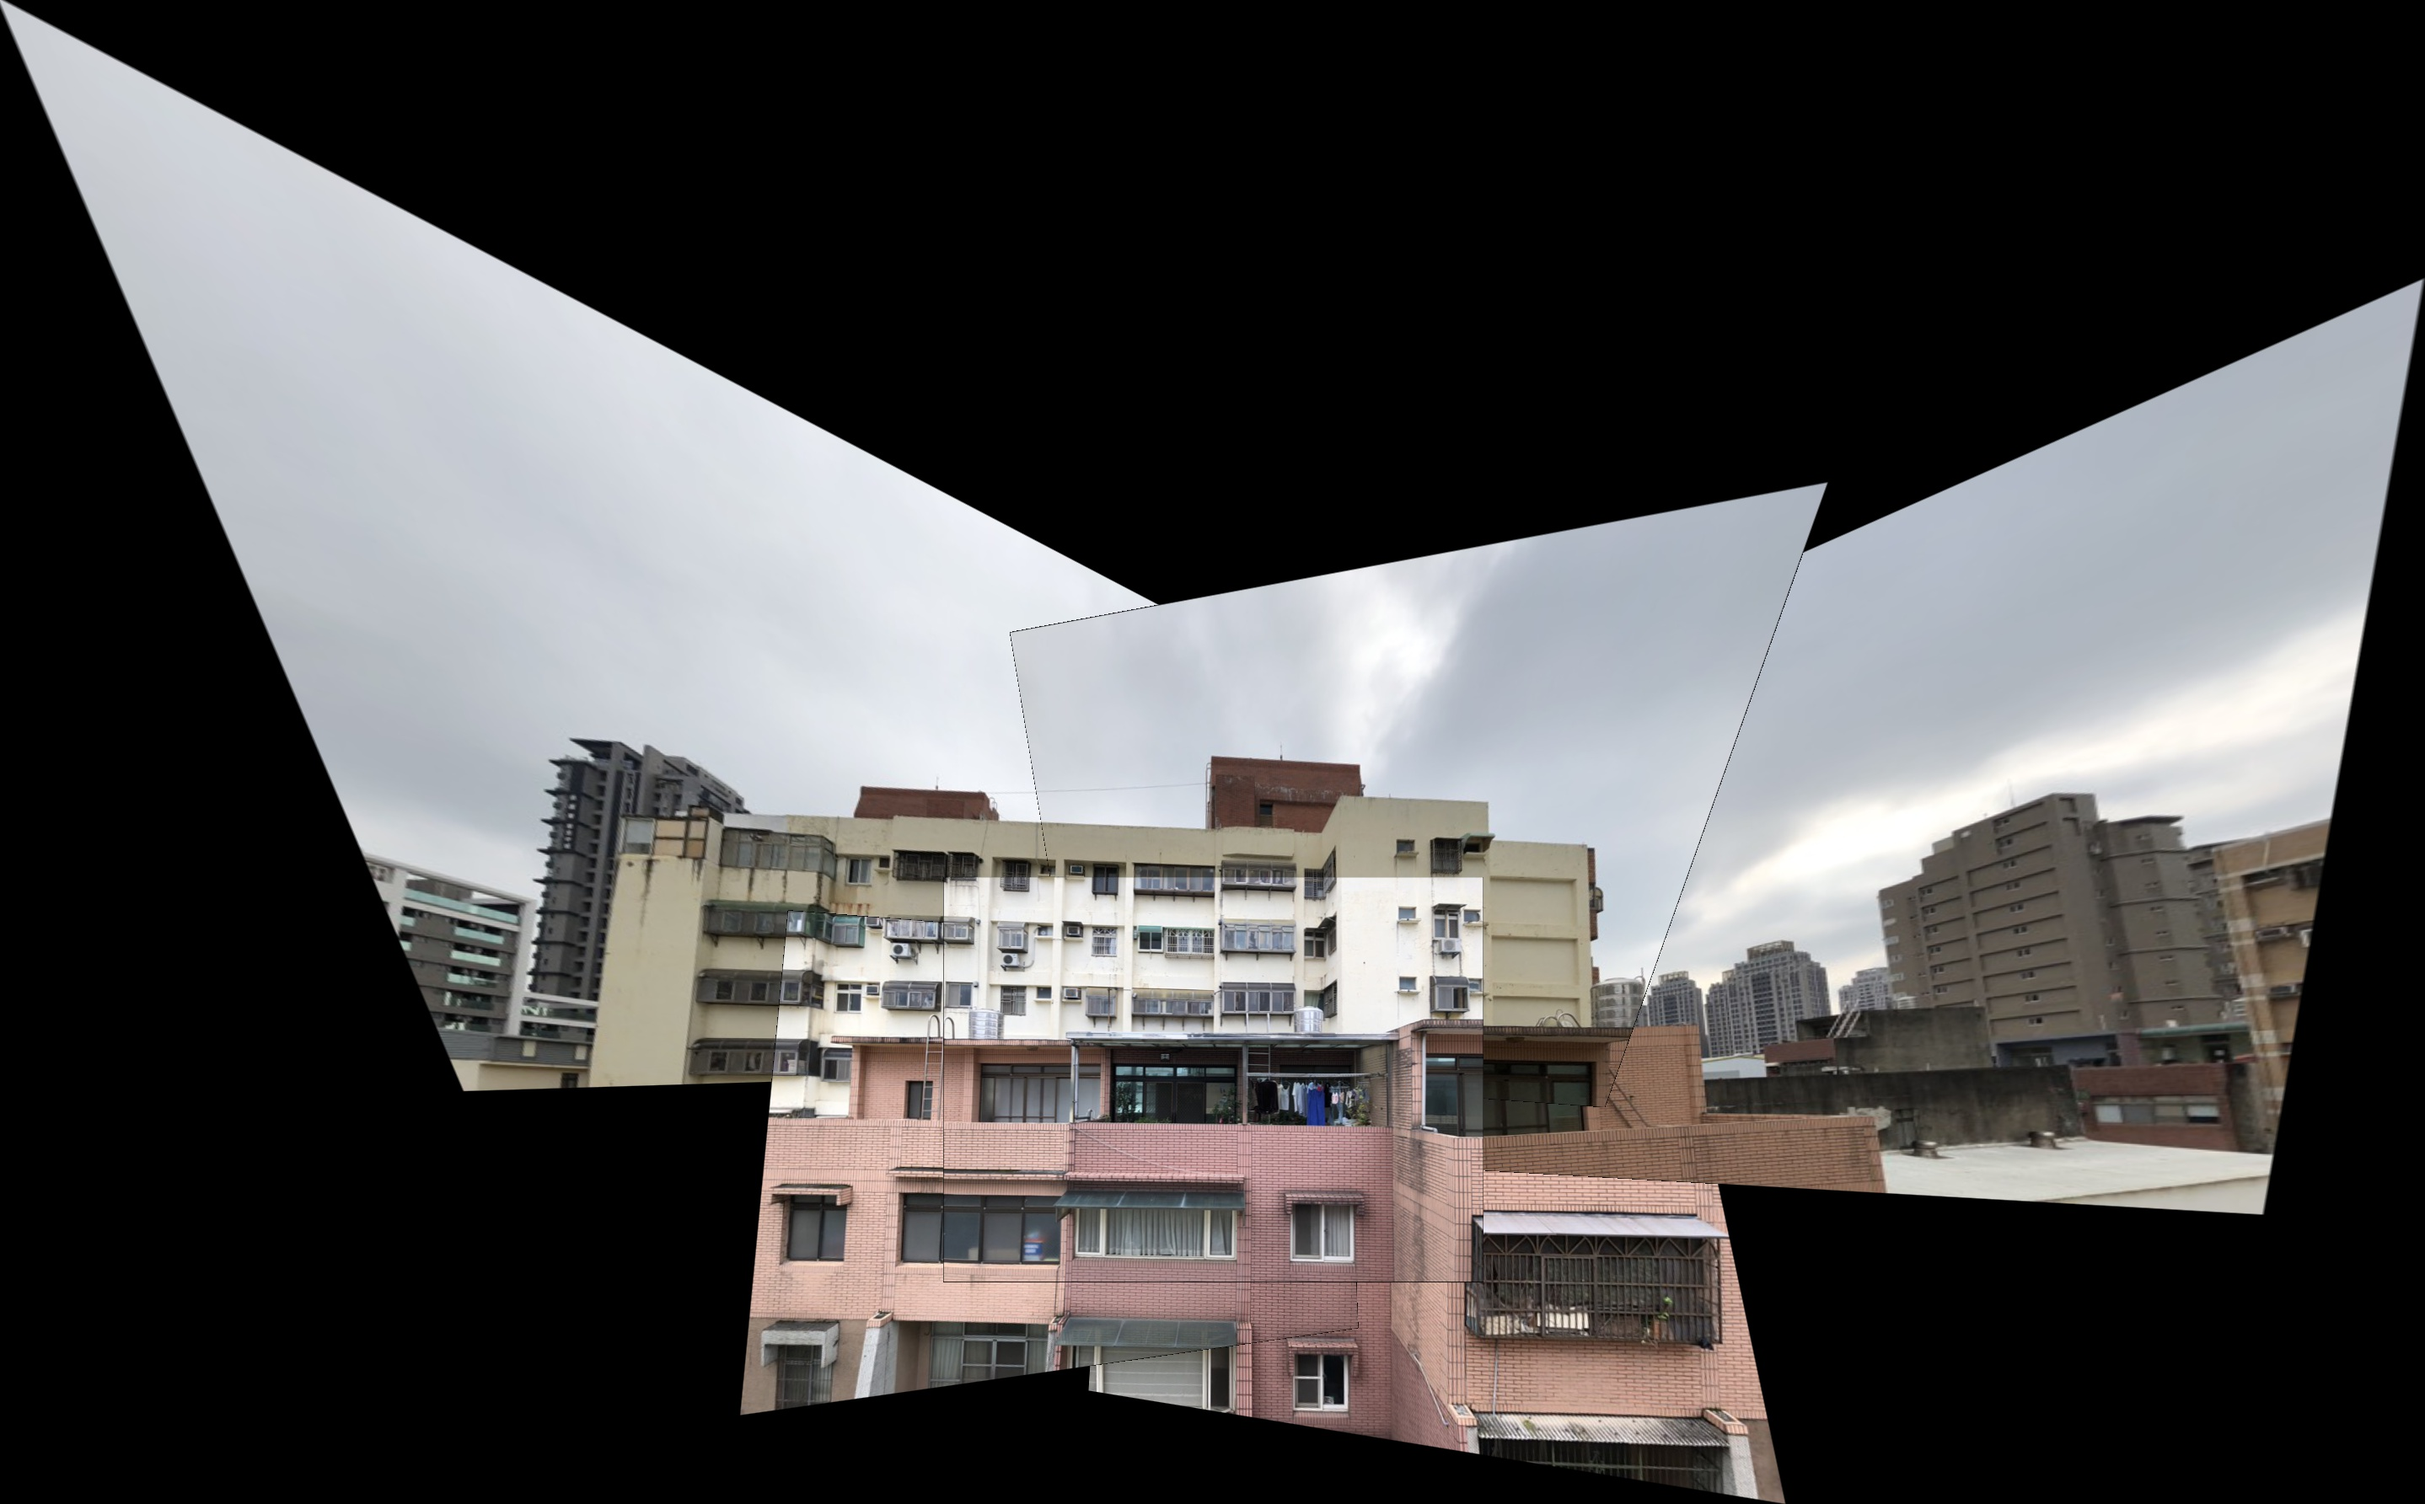
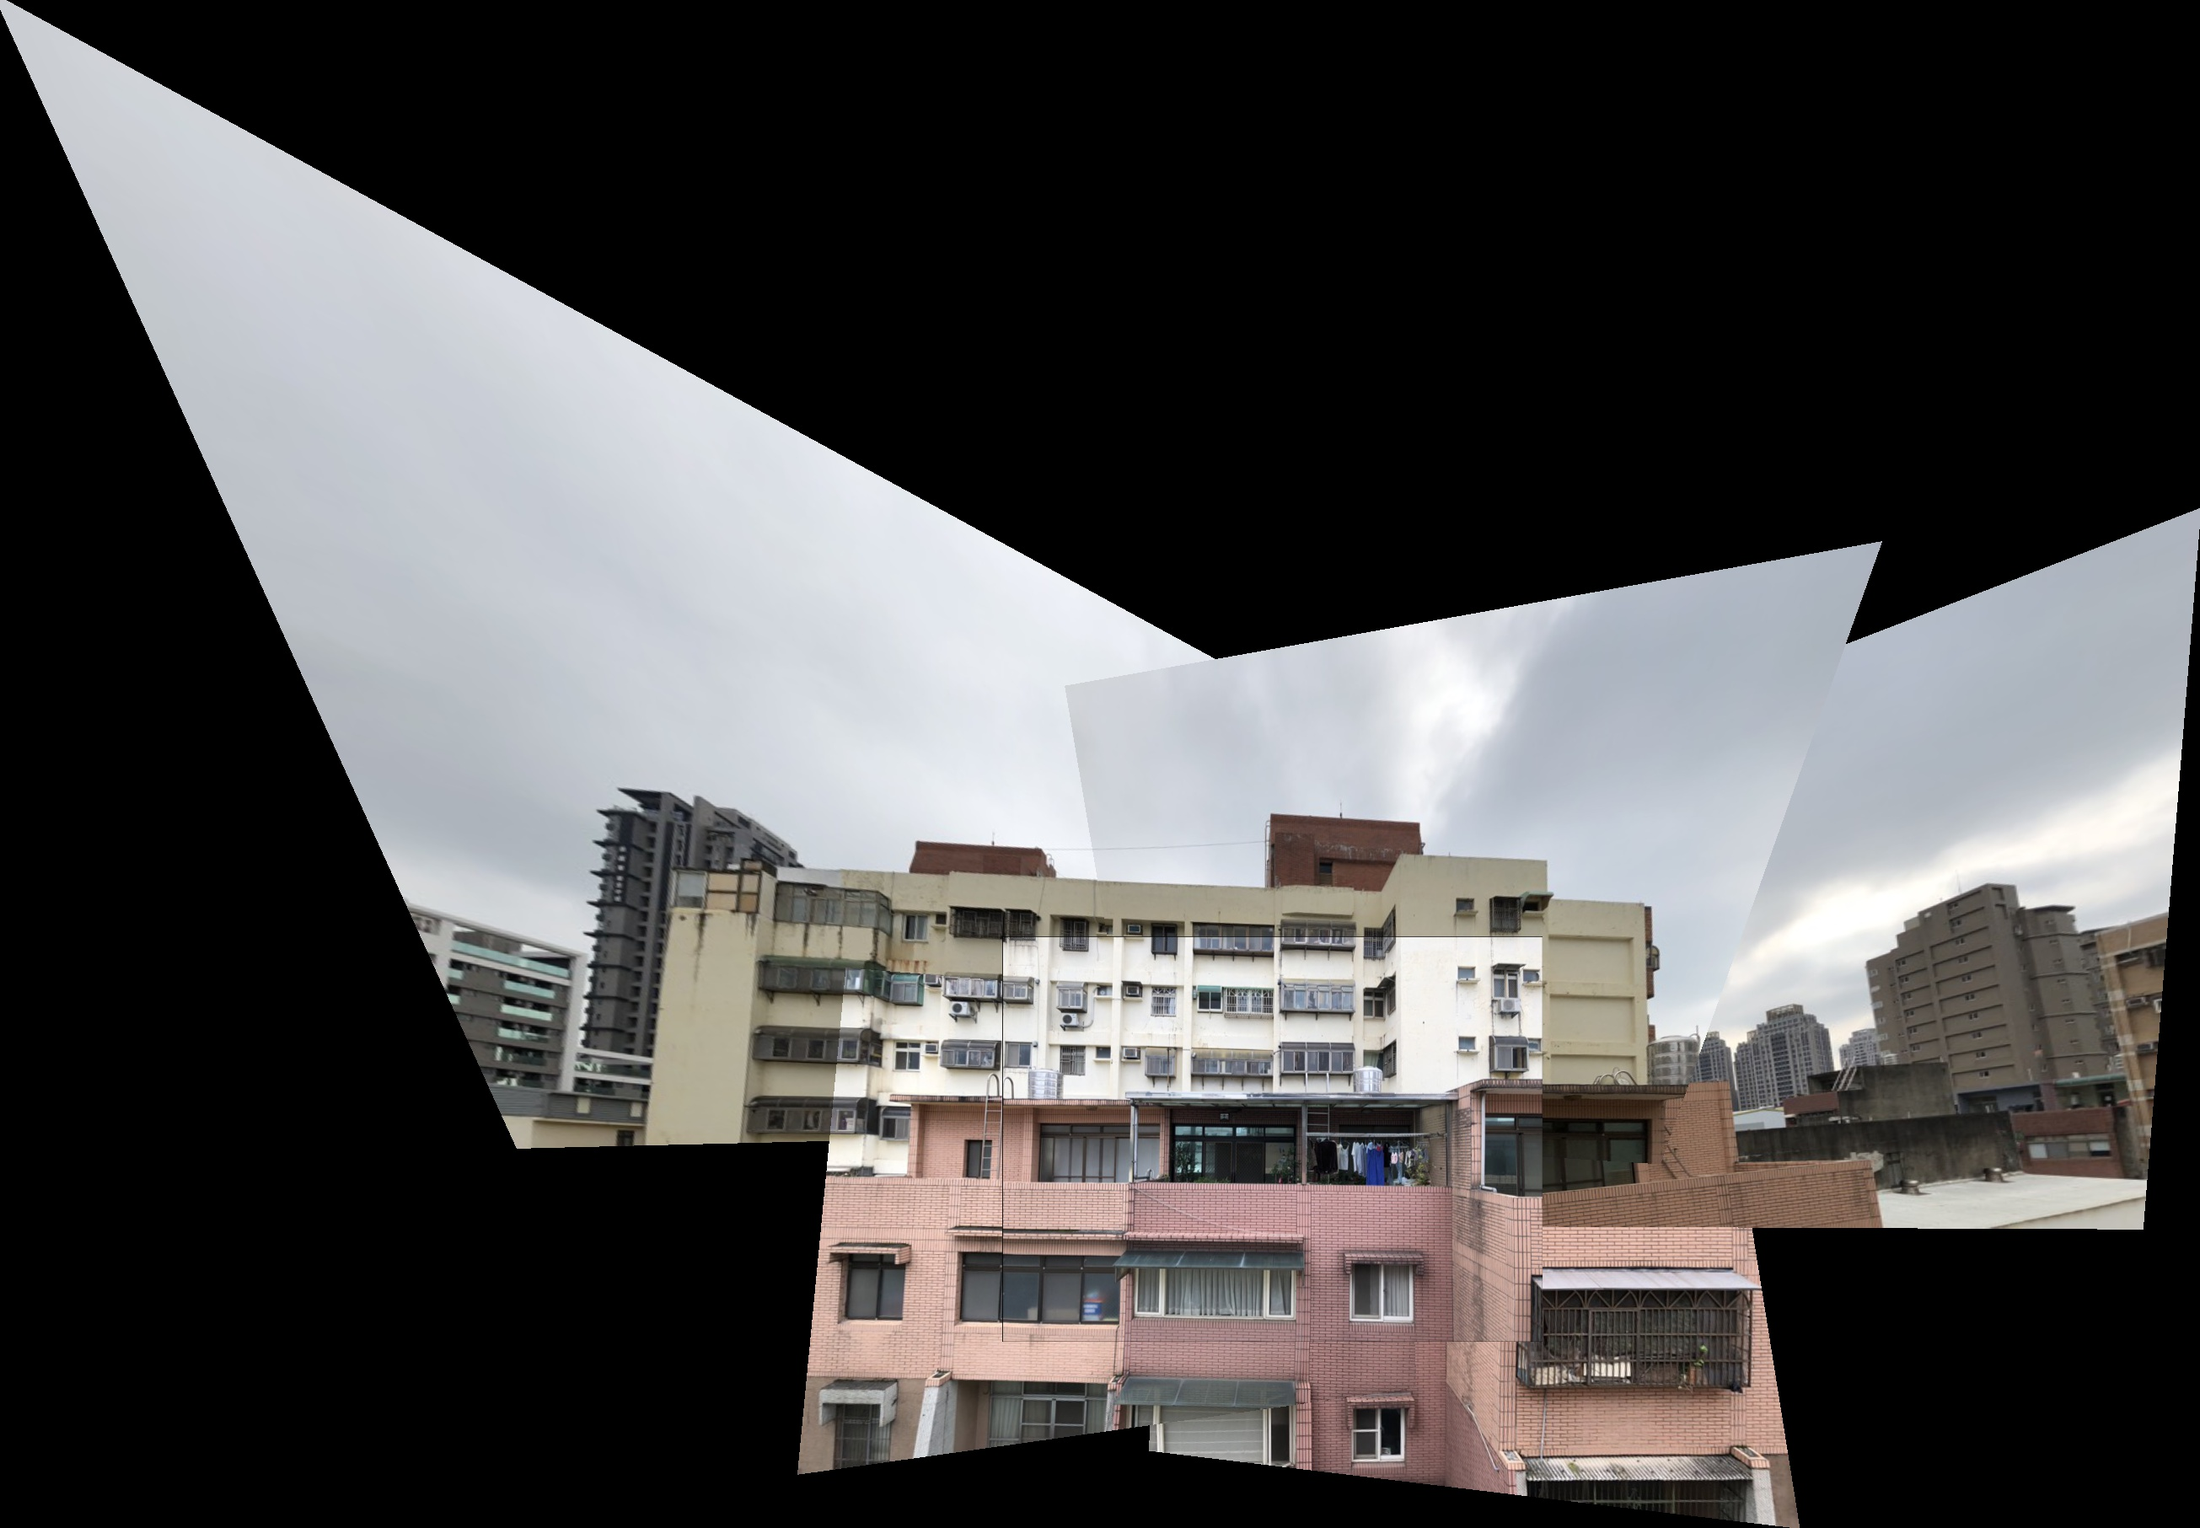
!!Warp with reflective border

diff --git a/main.py b/main.py
@@ -85,19 +85,20 @@ def main():
     new_size = (int(pano_corners[0].max()-pano_corners[0].min()), int(pano_corners[1].max()-pano_corners[1].min()))
 
     # Stitch images
-    pano = np.zeros((new_size[1], new_size[0], 3), np.uint8)
-    for idx in range(len(imgList)):
+    pano = cv2.warpPerspective(Images[0], T, new_size)
+    for idx in range(1, len(imgList)):
 
         H = Transform[idx]
 
         # Warp images
-        warped = cv2.warpPerspective(Images[idx], T.dot(H), new_size)
+        warped_mask = cv2.warpPerspective(Images[idx], T.dot(H), new_size)
+        warped = cv2.warpPerspective(Images[idx], T.dot(H), new_size, borderMode=cv2.BORDER_REFLECT)
 
         # Blend image
         # add_mask = np.sum(warped, axis=2) > np.sum(pano, axis=2)
         # add_mask = add_mask & (np.sum(pano, axis=2) < 300)
         result_mask = np.sum(pano, axis=2) != 0
-        temp_mask = np.sum(warped, axis=2) != 0
+        temp_mask = np.sum(warped_mask, axis=2) != 0
         add_mask = temp_mask & (~result_mask)
         for c in range(pano.shape[2]):
             cur_im = pano[:,:,c]
